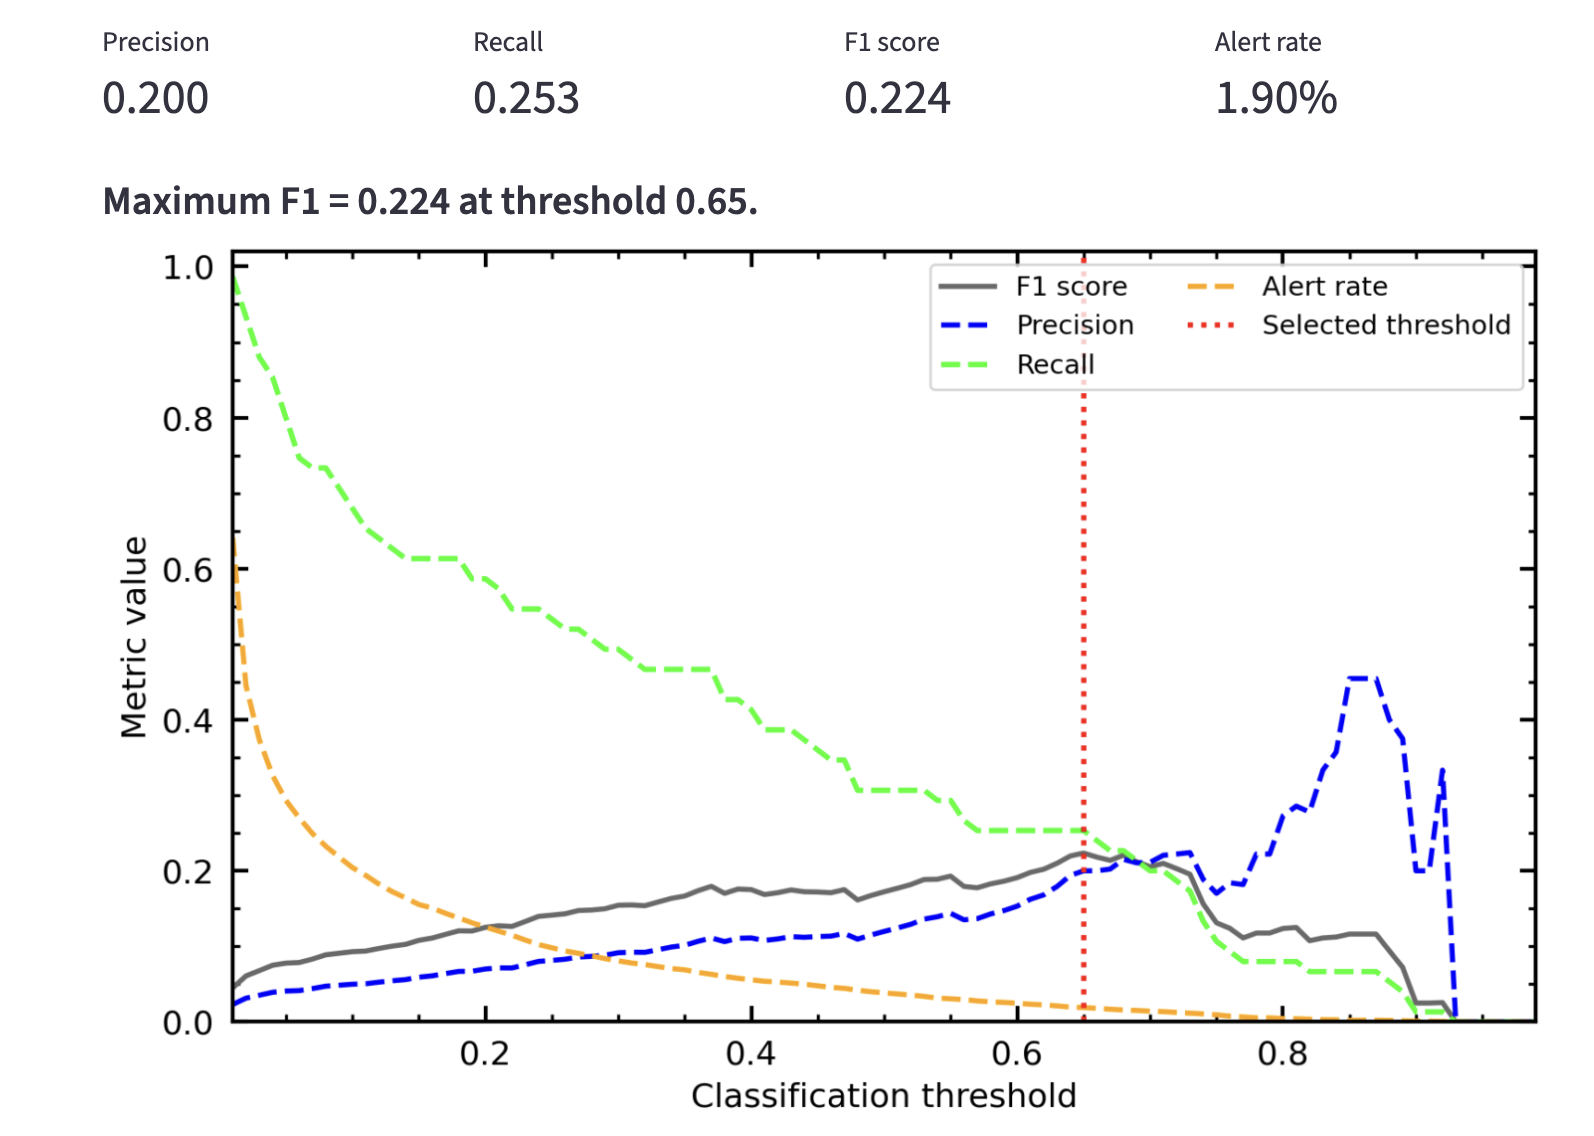
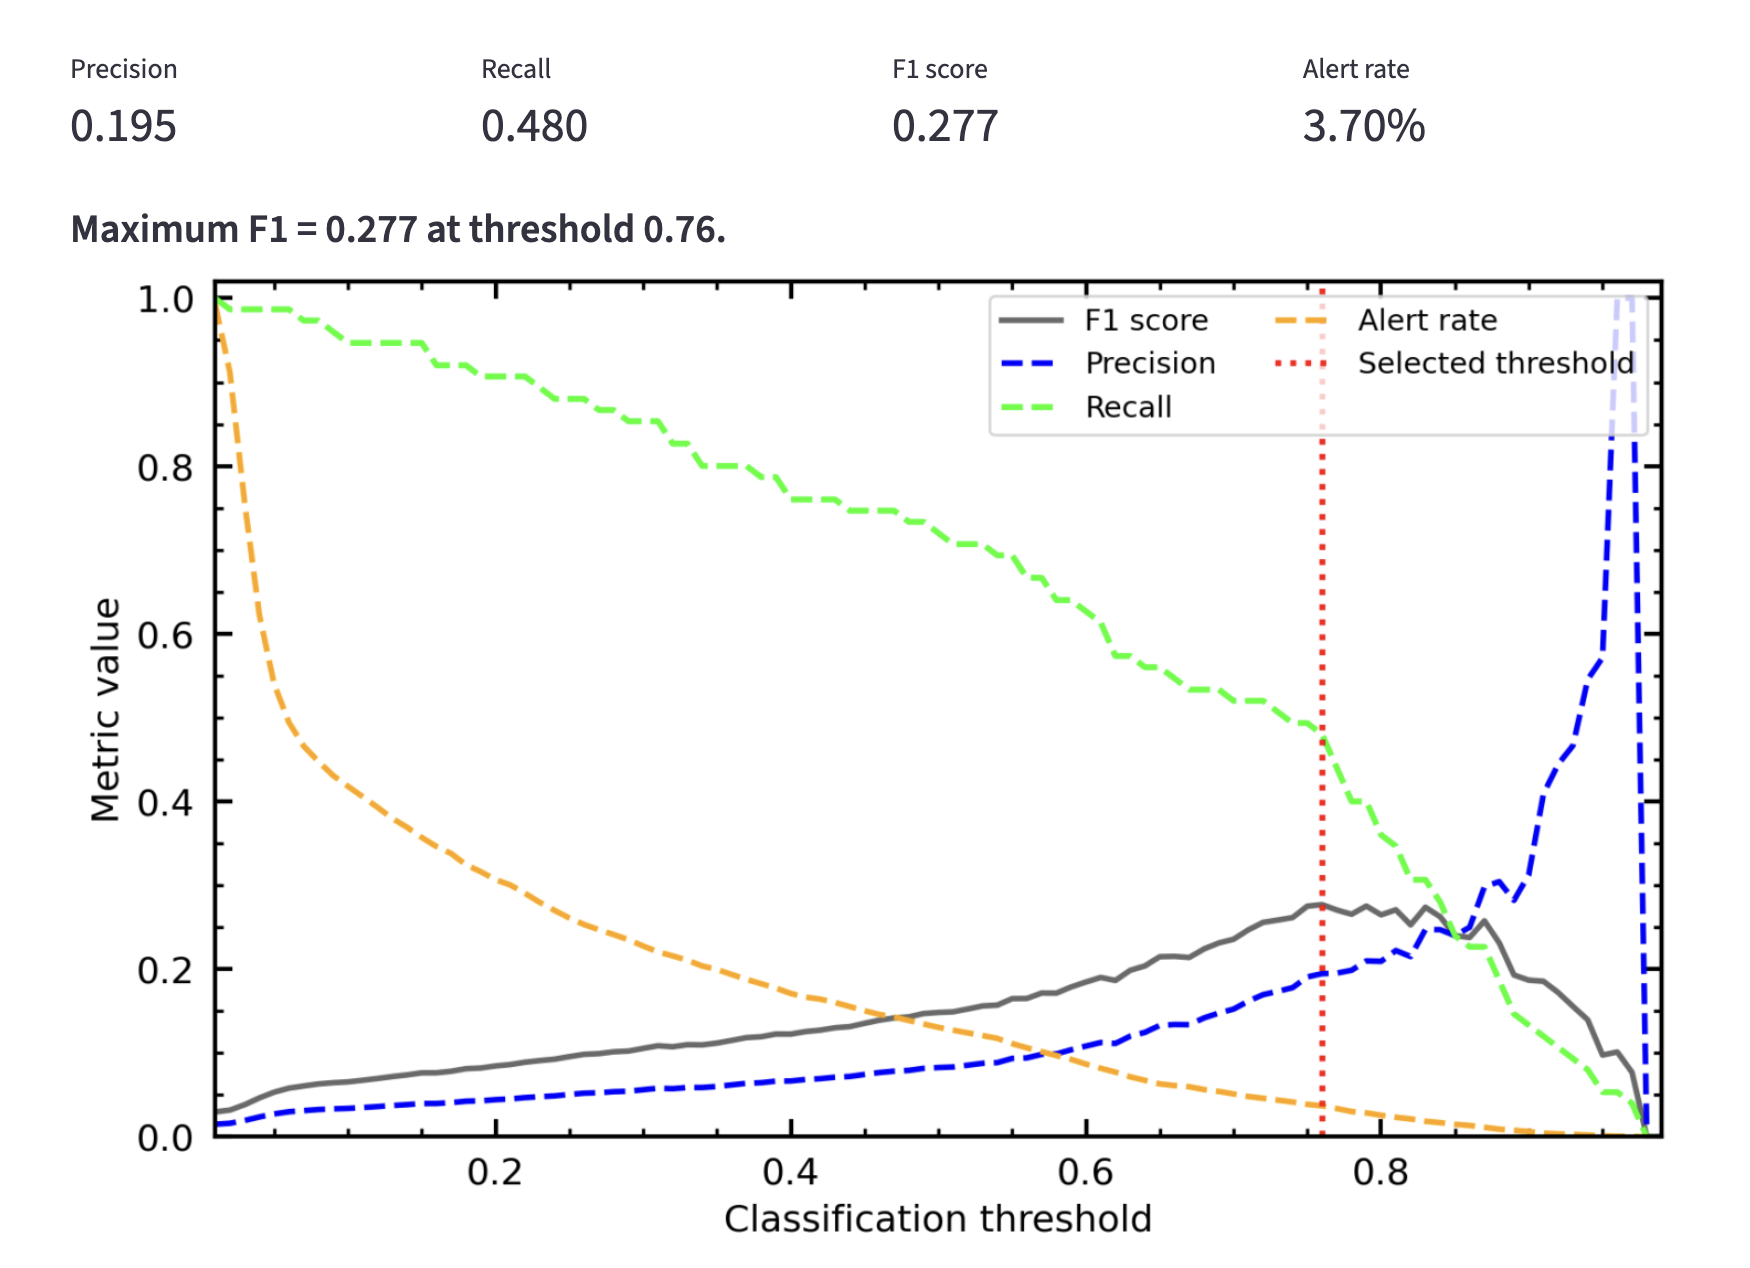
Add Gradient Boost support to app and pipeline; update results and docs

diff --git a/app/rare_event_classification_app.py b/app/rare_event_classification_app.py
@@ -22,6 +22,8 @@ from sklearn.metrics import (
     recall_score,
     roc_curve,
 )
+from sklearn.ensemble import GradientBoostingClassifier
+from sklearn.utils.class_weight import compute_sample_weight
 from sklearn.model_selection import train_test_split
 from sklearn.preprocessing import StandardScaler
 from imblearn.pipeline import Pipeline
@@ -151,6 +153,8 @@ def prepare_xy(
 # ---------------------------------------------------------------------
 
 MODEL_NAMES = [
+    "Gradient Boost", # Since index=0 points at position 0 ("XGBoost"),
+                      #just reorder the list so Gradient Boost is first:
     "XGBoost",
     "Logistic Regression",
     "Decision Tree",
@@ -175,6 +179,17 @@ def build_classifier(model_name: str, class_ratio: float):
             n_jobs=2,
             eval_metric="logloss",
             scale_pos_weight=class_ratio,
+        )
+
+    if model_name == "Gradient Boost":
+        # GradientBoostingClassifier has no class_weight parameter --
+        # class balancing is applied via sample_weight at fit time
+        # instead (see fit_and_score_model below).
+        return GradientBoostingClassifier(
+            n_estimators=300,
+            max_depth=3,
+            learning_rate=0.05,
+            random_state=42,
         )
 
     if model_name == "Logistic Regression":
@@ -218,14 +233,14 @@ def fit_and_score_model(
         # Remove class weights when explicit resampling is used.
         if model_name == "XGBoost":
             classifier.set_params(scale_pos_weight=1.0)
-        else:
+        elif model_name != "Gradient Boost":
             classifier.set_params(class_weight=None)
         steps.append(("sampler", SMOTE(random_state=42)))
 
     elif imbalance_method == "Under-sampling":
         if model_name == "XGBoost":
             classifier.set_params(scale_pos_weight=1.0)
-        else:
+        elif model_name != "Gradient Boost":
             classifier.set_params(class_weight=None)
         steps.append(
             (
@@ -236,10 +251,19 @@ def fit_and_score_model(
                 ),
             )
         )
-
+    
     steps.append(("classifier", classifier))
     model = Pipeline(steps)
-    model.fit(X_train, y_train)
+
+    fit_params = {}
+    if model_name == "Gradient Boost" and imbalance_method == "Class weighting":
+        # Pipeline fit-param convention: "<step_name>__<param_name>"
+        fit_params["classifier__sample_weight"] = compute_sample_weight(
+            class_weight="balanced", y=y_train
+        )
+
+    model.fit(X_train, y_train, **fit_params)
+    
 
     y_prob = model.predict_proba(X_test)[:, 1]
 
@@ -883,10 +907,19 @@ with tabs[2]:
                 """
                 **XGBoost**  
                 An ensemble of decision trees built sequentially to improve prediction errors.
-                Often performs very well on structured tabular data and can model complex non-linear relationships.
+                Often performs very well on structured tabular data and can model complex
+                non-linear relationships.
+
+               **Gradient Boost**  
+                Similar in spirit to XGBoost — trees are added sequentially, each correcting
+                the previous
+                ensemble's errors. Achieves the strongest recall and PR AUC of the models
+                compared in this
+                workbench's case study, at the cost of a higher alert rate.
 
                **Logistic Regression**  
-               A simple, interpretable linear classifier that estimates the probability of the positive class.
+               A simple, interpretable linear classifier that estimates the probability of
+                the positive class.
                Useful as a strong baseline and when transparency matters.
 
                **Decision Tree**  
@@ -928,6 +961,13 @@ with tabs[2]:
             "The XGBoost settings match the notebook case study: 500 estimators, depth 5, "
             "learning rate 0.03, with class weighting selected by default."
         )
+    elif model_name == "Gradient Boost":
+        st.caption(
+            "The Gradient Boost settings match the notebook case study: 300 estimators, depth 3, "
+            "learning rate 0.05, with class balancing applied via sample weighting by default. "
+            "This configuration achieves the strongest documented result in this workbench "
+            "(recall ≈48% vs. XGBoost's ≈25%, at a comparable precision)."
+    )
 
     run_model = st.button("Run model", type="primary")
 
@@ -1118,9 +1158,12 @@ with tabs[3]:
             }
             table = raw_thresholds.rename(columns=rename_map)
             table = table[["threshold", "f1", "precision", "recall", "alert_rate"]]
+            
             st.info(
-                "Showing the precomputed XGBoost + class-weighting threshold sweep from the "
-                "notebook. Run a model in the Model Workbench to generate a new sweep live."
+                "Showing the precomputed Gradient Boost + class-weighting threshold sweep from the "
+                "notebook (the strongest documented result). Run a different model in Model "
+                "Workbench to generate a new sweep live."
+    
             )
         else:
             st.info("Run a model in **Model Workbench** to explore its threshold trade-offs.")

diff --git a/src/pipeline.py b/src/pipeline.py
@@ -199,6 +199,8 @@ from imblearn.under_sampling import RandomUnderSampler
 from imblearn.over_sampling import SMOTE
 from sklearn.metrics import precision_score,recall_score,f1_score,confusion_matrix
 from sklearn.metrics import precision_recall_curve,ConfusionMatrixDisplay,roc_curve,auc, average_precision_score
+from sklearn.ensemble import GradientBoostingClassifier
+from sklearn.utils.class_weight import compute_sample_weight
 from xgboost import XGBClassifier
 from sklearn.linear_model import LogisticRegression 
 from sklearn.svm import SVC
@@ -209,13 +211,14 @@ classifiers = {
     "Logistic Regression": LogisticRegression(C=0.08858667, solver='newton-cg'),
     "Support Vector": SVC(C=1, gamma=0.1,probability=True), 
     'XGBoost': XGBClassifier(n_estimators=500,max_depth=5,learning_rate=0.03,
-                             subsample=0.8,colsample_bytree=0.8,random_state=42)
+                             subsample=0.8,colsample_bytree=0.8,random_state=42),
+    'Gradient Boost': GradientBoostingClassifier(n_estimators=300,max_depth=3,
+                             learning_rate=0.05,random_state=42)
     }
 
-
 def ML(cl,desc,threshold,confidence,feature_importance,tuning,show_plot):   
-    #threshold = 0.5 # th1 + float(th2)/100
     classifier = classifiers.get(cl) 
+    fit_kwargs = {}
     if desc != "Class Weighting":
         classifier.set_params(class_weight=None)
         if desc == 'SMOTE':
@@ -224,16 +227,22 @@ def ML(cl,desc,threshold,confidence,feature_importance,tuning,show_plot):
             sampler = RandomUnderSampler(sampling_strategy='majority') 
         model = Pipeline([(desc,sampler),(cl, classifier)])
     else:
-        if cl != 'XGBoost':
-            classifier.set_params(class_weight='balanced')
-        else:
+        if cl == 'XGBoost':
             ratio = float(np.sum(y_train == 0) / np.sum(y_train == 1))
-            classifier.set_params(scale_pos_weight=ratio) 
-            #print('****blah****', classifier)
+            classifier.set_params(scale_pos_weight=ratio)
+        elif cl == 'Gradient Boost':
+            fit_kwargs['sample_weight'] = compute_sample_weight(
+                class_weight='balanced', y=y_train
+            )
+        else:
+            classifier.set_params(class_weight='balanced')
         desc = "class"
         model = classifier
-    model.fit(X_train, y_train)
+    model.fit(X_train, y_train, **fit_kwargs)
     
+    y_prob = model.predict_proba(X_test)[:,1]
+
+ 
     y_prob = model.predict_proba(X_test)[:,1] 
     #the model’s estimated probability that a transaction is fraud
     if tuning != 'n':
@@ -378,7 +387,7 @@ def ML(cl,desc,threshold,confidence,feature_importance,tuning,show_plot):
 
     m,n,Z,s,CI = stats(non_probs)
     print("Non: %1.2f%% confidence, the mean is %1.2g +/- %1.2g (range of %1.2g to %1.2g)"
-              %(confidence,Z,CI,m-CI,m+CI))
+              %(confidence,m,CI,m-CI,m+CI))
 
     ax4.errorbar(m, y_numeric[1], xerr=CI, fmt='o', color='g', capsize=5, label= "$%1.3f\pm%1.3g$" %(m,CI))
 
@@ -418,4 +427,6 @@ def ML(cl,desc,threshold,confidence,feature_importance,tuning,show_plot):
         plt.legend(fontsize = 0.8*font,loc='upper right')    
         plt.show()
 
-ML('XGBoost','Class Weighting',threshold = 0.65,confidence = 95,feature_importance = 'n',tuning = 'n',show_plot = 'y') # threshold = 0.65 FROM tuning = 'y'
+#ML('XGBoost','Class Weighting',threshold = 0.65,confidence = 95,feature_importance = 'n',tuning = 'n',show_plot = 'y') # threshold = 0.65 FROM tuning = 'y'
+
+ML('Gradient Boost','Class Weighting',threshold = 0.76,confidence = 95,feature_importance = 'n',tuning = 'n',show_plot = 'y') # threshold = 0.76 FROM tuning = 'y'

diff --git a/README.md b/README.md
@@ -12,20 +12,16 @@ Rather than optimising raw accuracy, the workflow focuses on the operational tra
 
 🚀 **Live app: [https://fraud-detection-workbench.streamlit.app](https://fraud-detection-workbench.streamlit.app)**
 
+---
 
-## Key Results
-These figures are produced directly by the workbench's own evaluation
-workflow (see `src/pipeline.py`) — the same numbers and plots any user sees
-when running the built-in case study through the app.
+## Key Results: Money Laundering Case Study
 
-For the synthetic gambling AML dataset, XGBoost with class weighting produced:
+For the synthetic gambling AML dataset, XGBoost with class weighting produced approximately:
 
 - **Precision:** 20.0%
 - **Recall:** 25.3%
 - **F1 score:** 0.224
 - **Alert rate:** 1.90%
-- **ROC AUC:** 0.848
-- **PR AUC:** 0.118
 
 This means:
 
@@ -33,11 +29,73 @@ This means:
 - approximately 1 in 4 truly suspicious accounts are detected
 - around 1.9% of all accounts are sent for review
 
-**Why these numbers are stronger than they first appear:** with a base rate of only 1.5% suspicious accounts, a model with no discriminative power would achieve roughly 1.5% precision — pure chance. The observed 20% precision represents a **13.3x lift over random selection**. The ROC AUC of 0.848 indicates the model separates suspicious from legitimate accounts substantially better than chance (0.5) across all possible thresholds, independent of any single operating point.
-
-Precision and recall are tied to one specific decision threshold; ROC AUC and PR AUC describe the model's overall discriminative power regardless of where that threshold is set — useful for judging the underlying model separately from the specific alert-rate trade-off chosen for this case study. PR AUC in particular is the more informative of the two for a problem this imbalanced, since ROC AUC can look deceptively strong even for weak rare-event classifiers; a PR AUC of 0.118 against a 1.5% base rate still represents genuine, meaningful lift, but it's an honest reminder of just how hard this problem is at this level of class imbalance.
-
 This illustrates why accuracy alone is a poor metric for rare-event detection — and why, even with real signal in the data (this dataset was validated to have genuine, learnable structure rather than noise), rare-event classification remains a fundamentally difficult, trade-off-driven problem rather than one with a "solved" answer.
+
+
+---
+
+## Iteration: Does Further Modelling Help?
+
+Four iteration strategies were tested against the XGBoost baseline reported
+above, to see whether the remaining ~3 in 4 undetected suspicious accounts
+could realistically be recovered.
+
+**1. Better model tuning — helped meaningfully**
+A more carefully tuned GradientBoostingClassifier (`n_estimators=300,
+max_depth=3, learning_rate=0.05`, class-balanced via `sample_weight`)
+improved recall from 25.3% to 48.0% and PR AUC from 0.118 to 0.224 —
+nearly double on both — at a comparable precision (19.5% vs. 20.0%). ROC
+AUC also improved (0.848 → 0.897). This model is now available in the
+workbench alongside XGBoost, Logistic Regression and Decision Tree, and
+catches roughly twice as many genuinely suspicious accounts as the
+original model, at the cost of a higher alert rate (~3.7% vs. 1.9%).
+
+**2. Ensembling — did not help**
+A soft-voting ensemble of RandomForest, GradientBoosting and Logistic
+Regression underperformed the best single model (F1 0.255 vs. 0.323),
+since weaker constituent models diluted rather than complemented the stronger one.
+
+**3. Cascade / second-look modelling — failed for an informative reason**
+A second-stage model trained specifically on the first model's
+"uncertain-probability" predictions found essentially no true positives in
+that band — indicating the missed cases aren't sitting in a recoverable
+middle ground the model is unsure about; they're either confidently (and
+wrongly) scored as negative, or the signal for them genuinely isn't in the
+data.
+
+**4. Peel-and-retrain — actively hurt performance**
+A natural question: after flagging the top-scored accounts for
+investigation, does removing them and re-running detection on the
+remainder surface a meaningful second wave of suspects? Tested directly:
+
+| Approach | True positives per 25-account batch | Cumulative recall after 2 rounds |
+|---|---|---|
+| Extend the same original ranked list | 6/25 (24%) | 22.7% |
+| Remove "easy" cases, retrain fresh, re-rank remainder | 2/25 (8%) | 17.3% |
+
+Retraining on the remainder performed *worse*, not better. Removing the
+most confidently-scored training cases to force the model toward "harder"
+examples also removed a disproportionate share of the (already rare)
+positive training examples — the positive rate in the retrained subset
+dropped from 1.50% to 1.04%, leaving the model with less signal, not more
+insight. There is no second, distinct fraud pattern hiding behind the
+obvious cases in this dataset — just fewer positive examples to learn from.
+
+**Why there's a hard ceiling regardless of approach**
+The synthetic dataset's label is deterministically generated as a weighted
+combination of risk features *plus* injected random noise (see
+`generate_dataset.py`). Decomposing that construction shows roughly
+**two-thirds of the total variance in the label is pure, feature-independent
+noise** — meaning a meaningful share of accounts near the decision boundary
+are fundamentally unrecoverable from the available features, no matter how
+sophisticated the modelling. Iteration can close part of the gap between a
+naive model and this ceiling (as tuning did here), but cannot close all of
+it — and some intuitive-sounding strategies (ensembling, cascading,
+peel-and-retrain) can make things worse rather than better if applied
+without first checking whether they address the actual source of the
+remaining error.
+
+---
 
 ## Interactive Workbench
 
@@ -150,7 +208,64 @@ Because the dataset is extremely imbalanced, the normalised confusion matrix con
 
 ---
 
+## Key Results: Money Laundering Case Study
 
+These figures are produced directly by the workbench's own evaluation
+workflow (see `pipeline.py`) — the same numbers and plots any user sees
+when running the built-in case study through the app.
+
+For the synthetic gambling AML dataset, **Gradient Boosting with class
+weighting** (via `sample_weight`) gave the strongest result of the models
+compared:
+
+- **Precision:** 19.5%
+- **Recall:** 48.0%
+- **F1 score:** 0.277
+- **Alert rate:** ~3.7%
+- **ROC AUC:** 0.897
+- **PR AUC:** 0.224
+
+For comparison, the original XGBoost model achieved 20.0% precision, 25.3%
+recall, F1 = 0.224, ROC AUC 0.848, PR AUC 0.118 at a 1.90% alert rate. Both
+are valid operating points — Gradient Boosting roughly **doubles recall for
+a comparable precision**, at the cost of a higher alert (investigation)
+rate; which is preferable depends on available investigation capacity (see
+Threshold Optimisation, below).
+
+This means, using the Gradient Boosting result:
+
+- roughly 1 in 5 flagged accounts show genuinely suspicious activity
+- nearly half of all truly suspicious accounts are detected
+- around 3.7% of all accounts are sent for review
+
+**Why these numbers are stronger than they first appear:** with a base
+rate of only 1.5% suspicious accounts, a model with no discriminative
+power would achieve roughly 1.5% precision — pure chance. The observed
+19.5% precision represents a **13.3x lift over random selection**. The
+ROC AUC of 0.897 indicates the model separates suspicious from legitimate
+accounts substantially better than chance (0.5) across all possible
+thresholds, independent of any single operating point.
+
+The model's predicted probabilities also separate cleanly between classes:
+suspicious accounts have a mean predicted probability of 0.64 (95% CI:
+0.59–0.69), while non-suspicious accounts average 0.175 (95% CI tight
+around this value) — a substantial, well-separated gap even though
+individual-case classification remains genuinely hard at this level of
+class imbalance.
+
+Precision and recall are tied to one specific decision threshold; ROC AUC
+and PR AUC describe the model's overall discriminative power regardless of
+where that threshold is set — useful for judging the underlying model
+separately from the specific alert-rate trade-off chosen for this case
+study. PR AUC in particular is the more informative of the two for a
+problem this imbalanced, since ROC AUC can look deceptively strong even
+for weak rare-event classifiers.
+
+This illustrates why accuracy alone is a poor metric for rare-event
+detection — and why, even with real signal in the data (this dataset was
+validated to have genuine, learnable structure rather than noise),
+rare-event classification remains a fundamentally difficult, trade-off-
+driven problem rather than one with a "solved" answer.
 
 ## Key Insight
 
